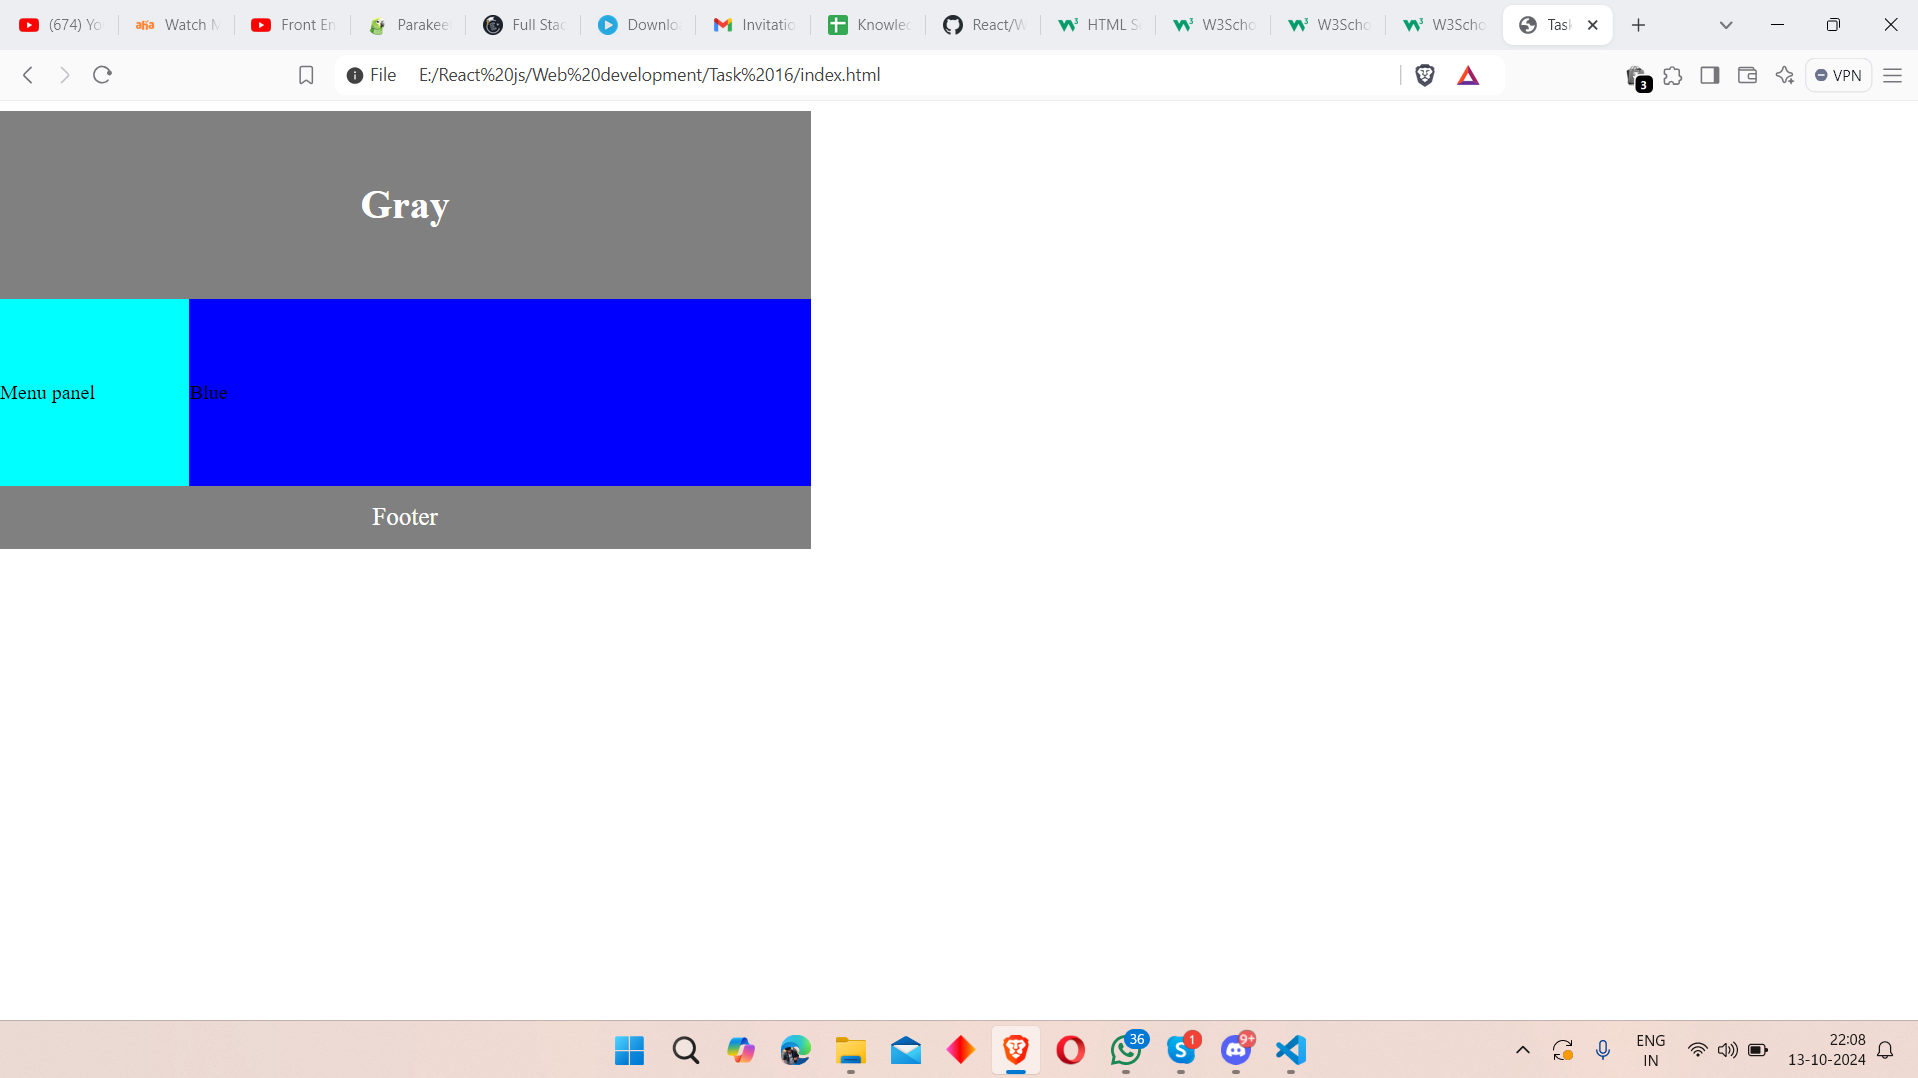
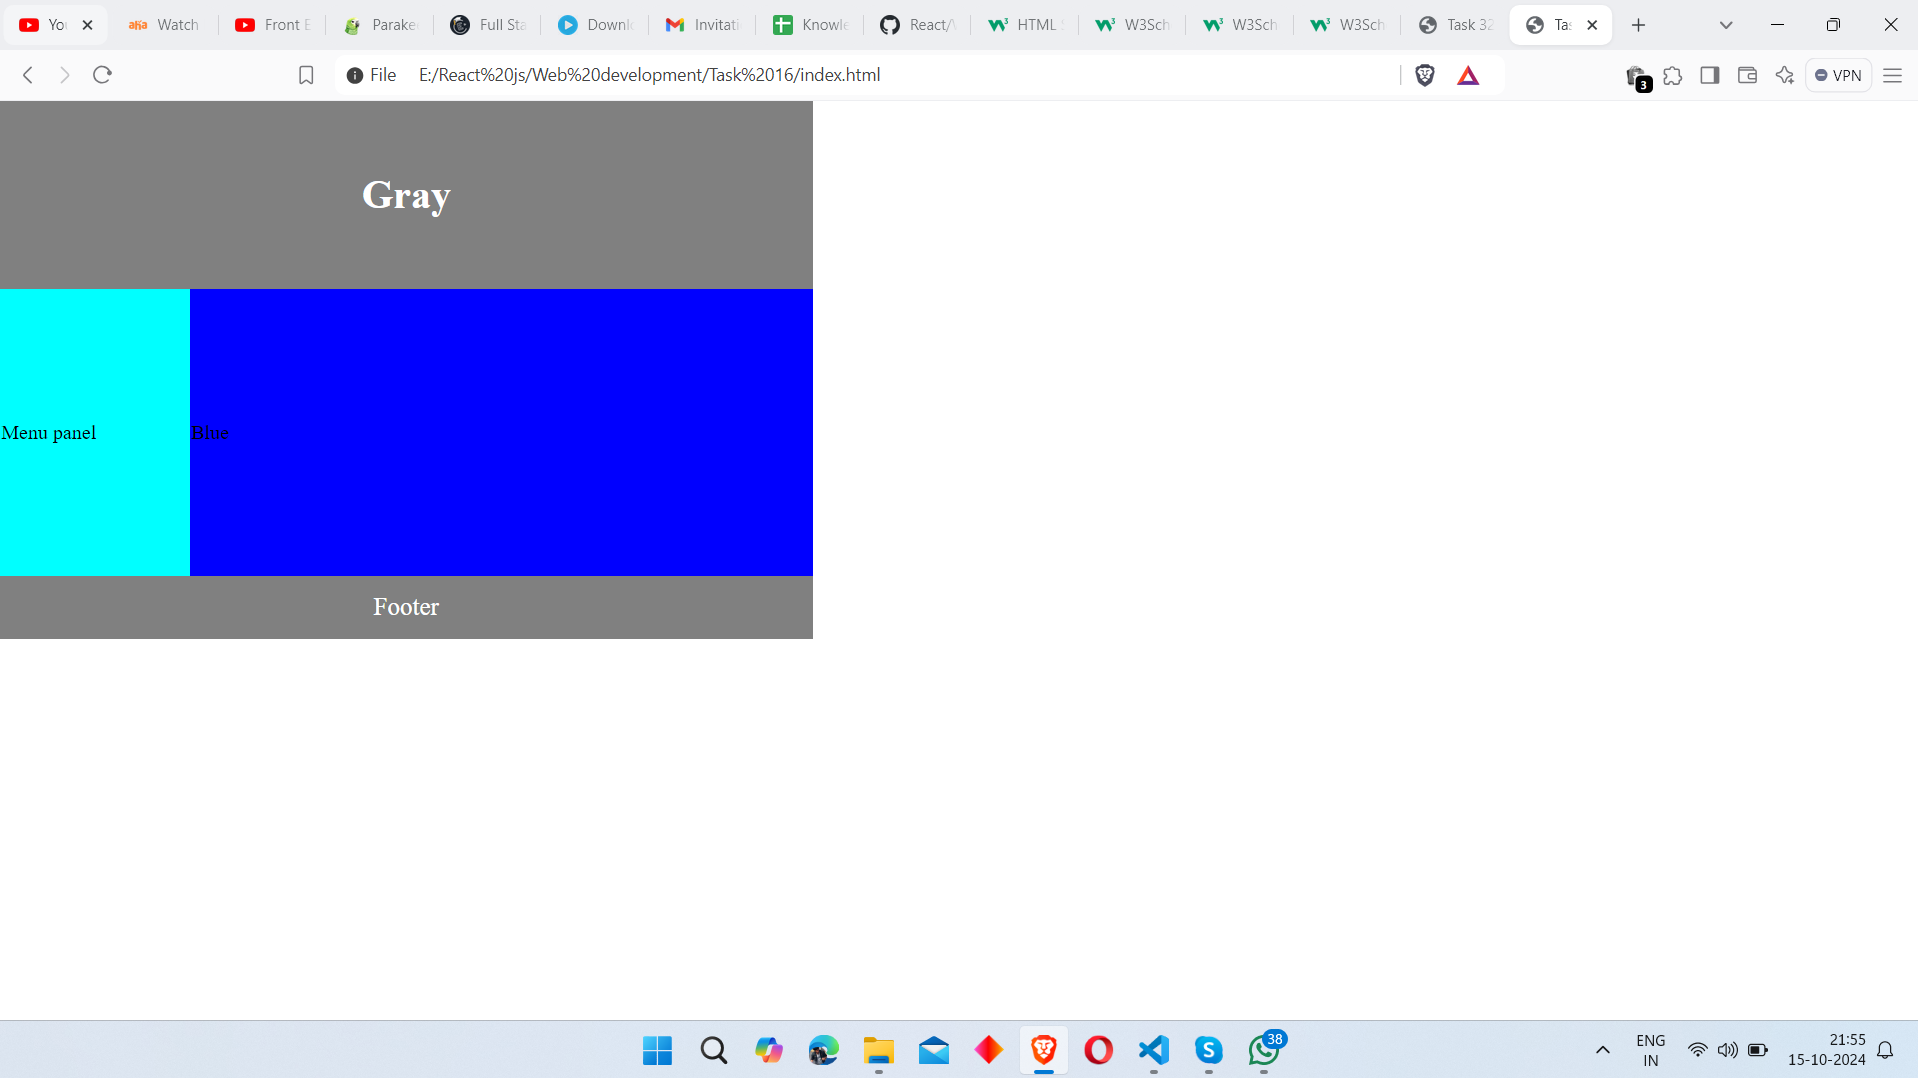
completed task 32 and resolved the corrections for other task

diff --git a/Web development/Task 18/index.html b/Web development/Task 18/index.html
@@ -47,6 +47,7 @@
             padding: 90px;
         }
         .nav{
+            background-color: orange;
             margin-left: 390px;
             margin-top: -200px;
             width: 310px;

diff --git a/Web development/Task 16/index.html b/Web development/Task 16/index.html
@@ -15,7 +15,7 @@
         height: 150px;
       }
       .row2{
-        height: 150px;
+        height: 230px;
       }
       .row3{
         height: 50px;
